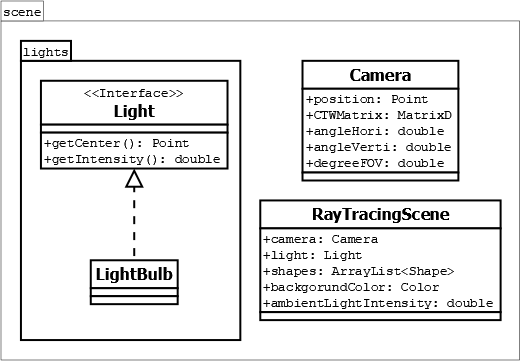
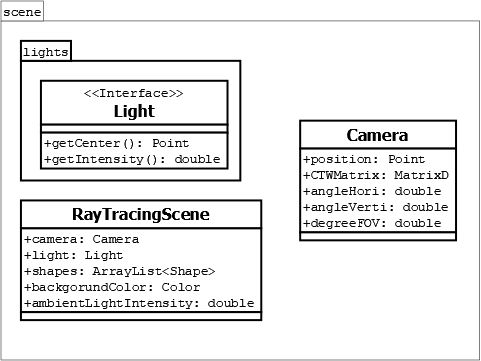
Avancement de la description des packages dans le rapport

Changed region(s): [[0.0312, 0.0609, 0.9979, 1.0], [0.1559, 0.2438, 0.3742, 0.3352], [0.0, 0.0, 0.0936, 0.0609]]

diff --git a/rapport/Rapport RayTracer.tex b/rapport/Rapport RayTracer.tex
@@ -508,17 +508,17 @@ La résolution de rendu est fixe et est donnée au constructeur du RayTracer. La
 \end{figure}
 \FloatBarrier
 
-Les sources de lumière et la caméra sont contenues dans la scène:
+Les sources de lumière et la caméra dont a besoin le RayTracer sont des attributs de RayTracingScene:
 
 \begin{figure}[h!]
-	\adjustbox{center}{\includegraphics[width=0.75\textwidth]{diagrammes/classe_RayTracingScene.png}}
+	\adjustbox{center}{\includegraphics[width=0.42\textwidth]{diagrammes/classe_RayTracingScene.png}}
 	
 	\caption{Diagramme de la classe RayTracingScene}
 	\label{diagrammeRayTracingScene}
 \end{figure}
 \FloatBarrier
 
-Le package scene s'organise ainsi de la sorte:
+La classe Camera, l'interface Light et la classe RayTracingScene s'organisent toutes dans le package scene:
 
 \begin{figure}[h!]
 	\adjustbox{center}{\includegraphics[width=0.75\textwidth]{diagrammes/package_scene.png}}
@@ -527,5 +527,8 @@ Le package scene s'organise ainsi de la sorte:
 	\label{diagrammePackageScene}
 \end{figure}
 \FloatBarrier
+
+\subsubsection{Le package geometry}
+\subsubsection{Le package materials}
 
 \end{document}
